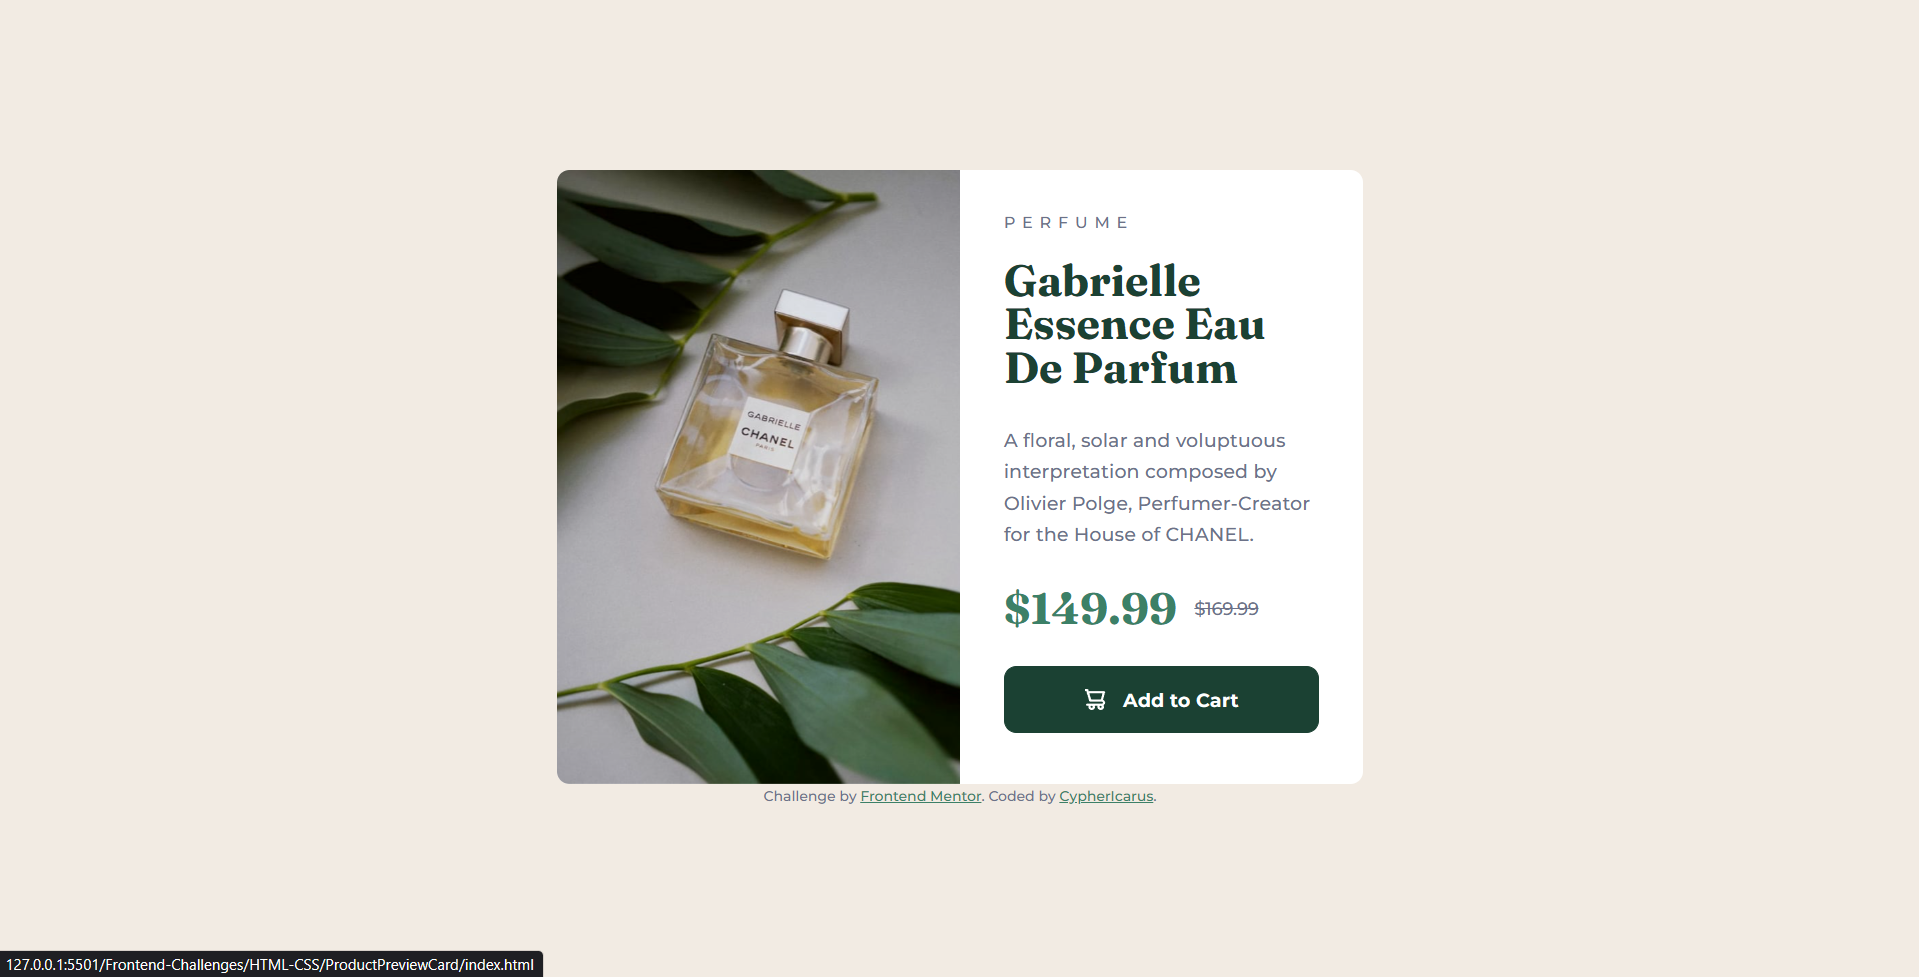
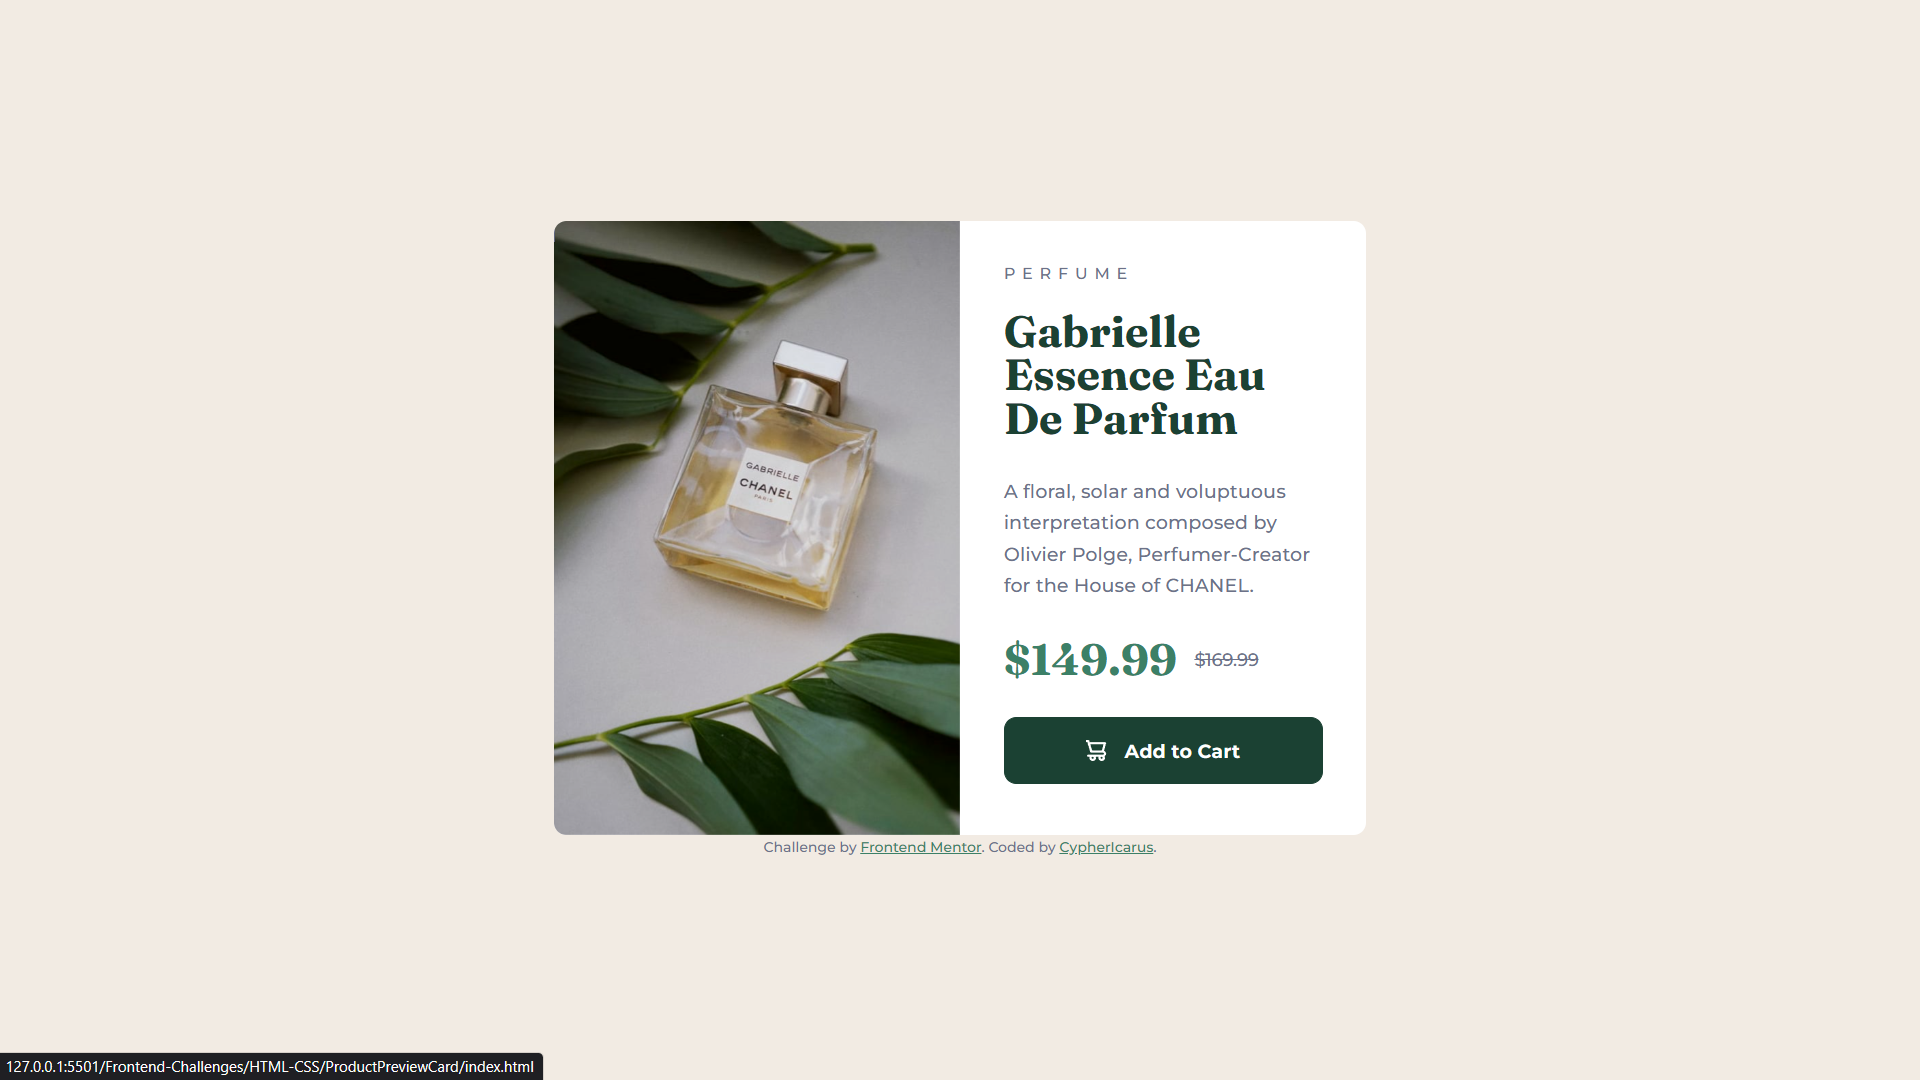
css updated

diff --git a/ProductPreviewCard/style.css b/ProductPreviewCard/style.css
@@ -39,8 +39,7 @@ html {
 .product-card {
     display: grid;
     grid-template-columns: 1fr 1fr;
-    height: auto;
-    max-width: 700px;
+    max-width: 650px;
     width: 90%;
     justify-content: stretch;
     overflow: hidden;

diff --git a/ProductPreviewCard/README.md b/ProductPreviewCard/README.md
@@ -1,6 +1,6 @@
 # 📦 Product Preview Card
 
-[![HTML5](https://img.shields.io/badge/HTML5-orange?logo=html5\&logoColor=white)](https://developer.mozilla.org/en-US/docs/Web/Guide/HTML/HTML5) [![CSS3](https://img.shields.io/badge/CSS3-blue?logo=css3\&logoColor=white)](https://developer.mozilla.org/en-US/docs/Web/CSS) [![Frontend Mentor](https://img.shields.io/badge/Challenge-Frontend%20Mentor-purple)](https://www.frontendmentor.io)
+[![HTML5](https://img.shields.io/badge/HTML5-orange?logo=html5\&logoColor=white)](https://developer.mozilla.org/en-US/docs/Web/Guide/HTML/HTML5) [![CSS3](https://img.shields.io/badge/CSS3-blue?logo=css3\&logoColor=white)](https://developer.mozilla.org/en-US/docs/Web/CSS) [![Frontend Mentor|166x20](https://img.shields.io/badge/Challenge-Frontend%20Mentor-purple)](https://www.frontendmentor.io)
 
 This project is a **responsive Product Preview Card** layout created as a solution for a challenge from [**Frontend Mentor**](https://www.frontendmentor.io/).
 
@@ -11,11 +11,17 @@ It showcases a product image along with product details like type, name, descrip
 ## 📑 Table of Contents
 
 * [Overview](#overview)
+
 * [Features](#features)
+
 * [Built With](#built-with)
+
 * [Responsive Design](#responsive-design)
+
 * [Challenges](#challenges)
+
 * [Attribution](#attribution)
+
 * [Contributing](#contributing)
 
 ---
@@ -25,27 +31,8 @@ It showcases a product image along with product details like type, name, descrip
 **✅ Live Demo:** [Link](https://product-cart-preview-card.netlify.app/)
 
 The goal of this project was to build a **clean, responsive product card** that works seamlessly across desktop and mobile devices.
+
 The focus was on **semantic HTML**, **modern CSS practices**, and **accessibility**.
-
----
-
-## Features
-
-* **Product Card Layout**: Displays product image, product type, title, description, discount price, original price, and an “Add to Cart” button.
-* **Responsive Design**: Layout switches from a **two-column grid (desktop)** to a **stacked column layout (mobile)**.
-* **Modern CSS Practices**: Built with CSS variables, flexbox, grid, and media queries.
-* **Accessible HTML Structure**: Uses semantic tags like `main`, `article`, `p`, `h1`, and accessible button design.
-
----
-
-## Built With
-
-* **HTML5**
-* **CSS3** (Grid, Flexbox, Media Queries)
-* **Google Fonts**:
-
-  * [Fraunces](https://fonts.google.com/specimen/Fraunces)
-  * [Montserrat](https://fonts.google.com/specimen/Montserrat)
 
 ---
 
@@ -53,13 +40,20 @@ The focus was on **semantic HTML**, **modern CSS practices**, and **accessibilit
 
 ### Desktop View
 
+![Desktop-view](https://github.com/user-attachments/assets/d16eb86c-3af4-44a5-a230-bda17ce8a7ca)  
+
 * Two-column card with product image on the left and details on the right.
+
 * Balanced spacing and consistent typography.
 
 ### Mobile View
 
+  ![Mobile-preview](https://github.com/user-attachments/assets/589e5229-9db6-4333-a3b0-13a2530d4c75)
+
 * Layout stacks vertically.
+
 * Product image switches to a **mobile-optimized version**.
+
 * Font sizes and spacing adjust for readability.
 
 ---
@@ -67,15 +61,45 @@ The focus was on **semantic HTML**, **modern CSS practices**, and **accessibilit
 ## Challenges
 
 * **Image Responsiveness**: Making the desktop and mobile images swap correctly via media queries.
+
 * **Border Radius Clipping**: Ensuring the image respects the parent card’s rounded corners.
+
 * **Layout Balance**: Getting the grid vs. flexbox switch right for different screen sizes.
+
 * **Typography Scaling**: Keeping the title readable but not oversized on mobile.
+
+---
+
+## Features
+
+* **Product Card Layout**: Displays product image, product type, title, description, discount price, original price, and an “Add to Cart” button.
+
+* **Responsive Design**: Layout switches from a **two-column grid (desktop)** to a **stacked column layout (mobile)**.
+
+* **Modern CSS Practices**: Built with CSS variables, flexbox, grid, and media queries.
+
+* **Accessible HTML Structure**: Uses semantic tags like `main`, `article`, `p`, `h1`, and accessible button design.
+
+---
+
+## Built With
+
+* **HTML5**
+
+* **CSS3** (Grid, Flexbox, Media Queries)
+
+* **Google Fonts**:
+
+  * [Fraunces](https://fonts.google.com/specimen/Fraunces)
+
+  * [Montserrat](https://fonts.google.com/specimen/Montserrat)
 
 ---
 
 ## Attribution
 
 This project is part of a challenge by [**Frontend Mentor**](https://www.frontendmentor.io/).
+
 Coded by [**CypherIcarus**](https://github.com/Cyphericarus).
 
 ---
@@ -83,4 +107,5 @@ Coded by [**CypherIcarus**](https://github.com/Cyphericarus).
 ## Contributing
 
 Contributions, issues, and suggestions are always welcome!
+
 Feel free to fork this repo and submit a PR with improvements. 😊
